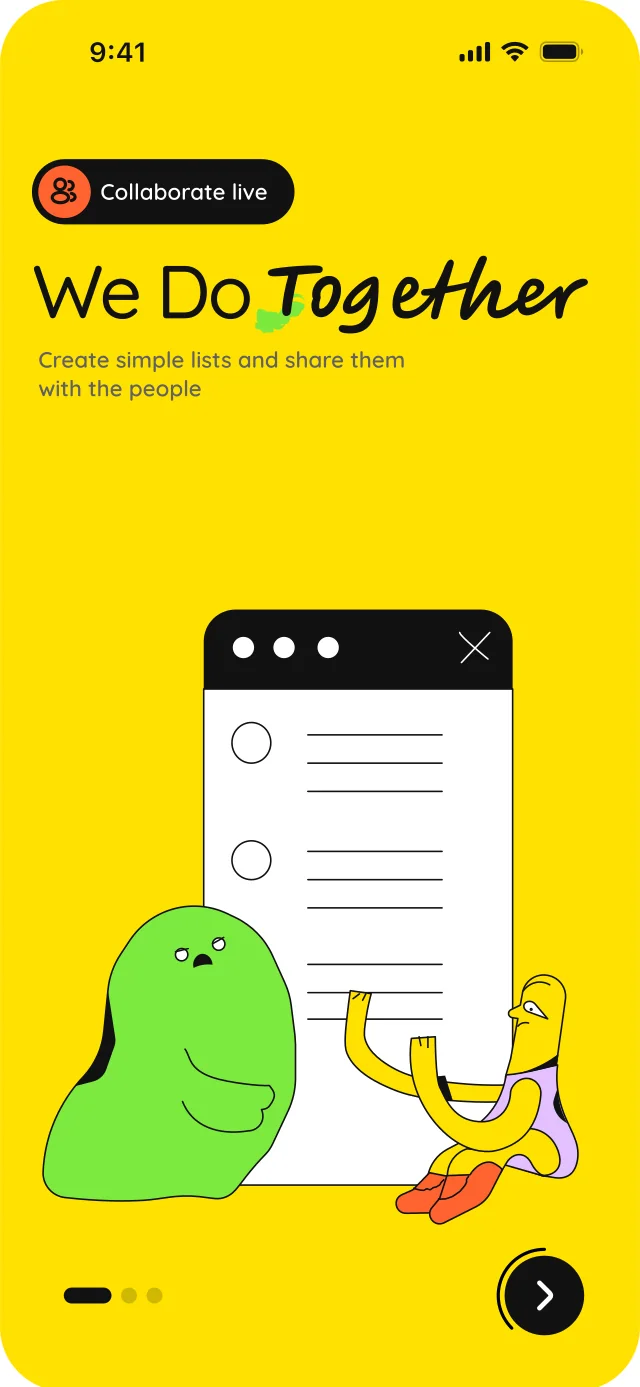
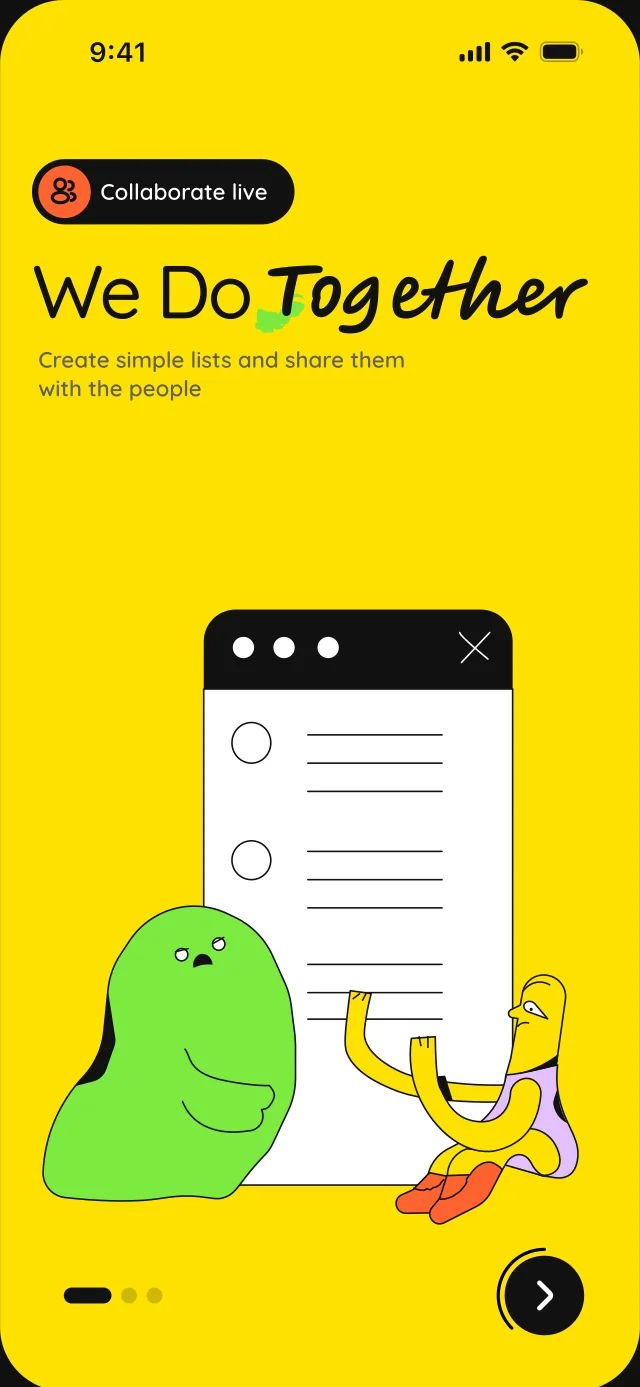
Proof: WeDo phone steps through seven screens; pages change by fade only, no taps

diff --git a/src/content/story.ts b/src/content/story.ts
@@ -121,8 +121,6 @@ export interface WorkMedia {
   /** public/work/<file>.webp, one per screen (a file may come back later in the loop) */
   files: readonly string[]
   alts: readonly string[]
-  /** where a finger taps to reach each screen (fractions of the screen), or null */
-  taps: readonly (readonly [number, number] | null)[]
   /** intrinsic size of the first screen */
   w: number
   h: number
@@ -138,17 +136,13 @@ export interface WorkProject {
   link?: { label: string; href: string }
   media: readonly WorkMedia[]
 }
-type Tap = readonly [x: number, y: number]
-const m = (kind: WorkKind, w: number, h: number, ...screens: [file: string, alt: string, tap?: Tap][]): WorkMedia => ({
+const m = (kind: WorkKind, w: number, h: number, ...screens: [file: string, alt: string][]): WorkMedia => ({
   kind,
   w,
   h,
   files: screens.map((x) => x[0]),
   alts: screens.map((x) => x[1]),
-  taps: screens.map((x) => x[2] ?? null),
 })
-/** DAZN's tab bar and header, as fractions of the phone screen */
-const DZ = { home: [0.115, 0.915], scores: [0.305, 0.915], schedule: [0.69, 0.915], search: [0.88, 0.915], avatar: [0.903, 0.087], back: [0.07, 0.087] } as const
 export const WORK: readonly WorkProject[] = [
   {
     id: 'dazn',
@@ -166,12 +160,12 @@ export const WORK: readonly WorkProject[] = [
         'phone',
         640,
         1382,
-        ['dazn-1', 'DAZN on mobile: home', DZ.home],
-        ['dazn-5', 'DAZN on mobile: profile', DZ.avatar],
-        ['dazn-1', 'DAZN on mobile: home', DZ.back],
-        ['dazn-2', 'DAZN on mobile: football scores', DZ.scores],
-        ['dazn-3', 'DAZN on mobile: schedule', DZ.schedule],
-        ['dazn-4', 'DAZN on mobile: search', DZ.search],
+        ['dazn-1', 'DAZN on mobile: home'],
+        ['dazn-5', 'DAZN on mobile: profile'],
+        ['dazn-1', 'DAZN on mobile: home'],
+        ['dazn-2', 'DAZN on mobile: football scores'],
+        ['dazn-3', 'DAZN on mobile: schedule'],
+        ['dazn-4', 'DAZN on mobile: search'],
       ),
     ],
   },
@@ -209,18 +203,17 @@ export const WORK: readonly WorkProject[] = [
       ['Platform', 'Mobile app'],
     ],
     media: [
-      // taps land where a finger would press: Get Started, an answer, View Profile, Message now
       m(
         'phone',
         640,
         1374,
         ['roomistry-0', 'Roomistry: the splash screen'],
         ['roomistry-1', 'Roomistry: welcome to Roomistry'],
-        ['roomistry-2', 'Roomistry: the questionnaire, cleanliness', [0.5, 0.899]],
-        ['roomistry-3', 'Roomistry: the questionnaire, passions', [0.25, 0.395]],
+        ['roomistry-2', 'Roomistry: the questionnaire, cleanliness'],
+        ['roomistry-3', 'Roomistry: the questionnaire, passions'],
         ['roomistry-4', 'Roomistry: four roommates that match'],
-        ['roomistry-5', 'Roomistry: a roommate profile', [0.59, 0.354]],
-        ['roomistry-6', 'Roomistry: messaging a roommate', [0.657, 0.306]],
+        ['roomistry-5', 'Roomistry: a roommate profile'],
+        ['roomistry-6', 'Roomistry: messaging a roommate'],
       ),
     ],
   },
@@ -253,8 +246,7 @@ export const WORK: readonly WorkProject[] = [
         1386,
         ['studious-1', 'Studious on mobile: the splash screen'],
         ['studious-2', 'Studious on mobile: welcome to Studious'],
-        // a tap on Next leads on to the account
-        ['studious-3', 'Studious on mobile: create an account', [0.5, 0.917]],
+        ['studious-3', 'Studious on mobile: create an account'],
       ),
     ],
   },
@@ -273,7 +265,18 @@ export const WORK: readonly WorkProject[] = [
     body: 'Shared lists for groceries, trips and baby gear, kept in one clean spot.',
     meta: [['Platform', 'Mobile app']],
     media: [
-      m('phone', 640, 1387, ['wedo-0', 'WeDo: We do together'], ['wedo-1', 'WeDo: a shared grocery list'], ['wedo-2', 'WeDo: for everything']),
+      m(
+        'phone',
+        640,
+        1387,
+        ['wedo-0', 'WeDo onboarding: We do together'],
+        ['wedo-1', 'WeDo onboarding: always in sync'],
+        ['wedo-2', 'WeDo onboarding: for everything'],
+        ['wedo-3', 'WeDo: one step away from shared lists, sign in'],
+        ['wedo-4', 'WeDo: no list yet'],
+        ['wedo-5', 'WeDo: a new list'],
+        ['wedo-6', 'WeDo: Grocery and Baby items lists, shared'],
+      ),
     ],
   },
 ]

diff --git a/src/build/sections/proof/workFx.ts b/src/build/sections/proof/workFx.ts
@@ -2,7 +2,7 @@
  * 03 Proof — the work strip's driver. Region 1's build progress slides the
  * track sideways (the camera holds still on the region, like How I think's
  * pan). Frames with several screens change page while in view, like
- * tapping through an app; screen recordings play only while their frame is in
+ * changing pages in an app; screen recordings play only while their frame is in
  * view. The bottom timeline's dot follows the strip and names the project in view.
  * Layout is read only in `measure`; `update` writes cached transforms.
  */
@@ -24,25 +24,15 @@ export function mountWork(root: HTMLElement) {
   const projs = Array.from(track.querySelectorAll<HTMLElement>('.pw-proj'))
   const ticks = Array.from(root.querySelectorAll<HTMLElement>('.pw-tick'))
   /** frames with several screens: they change page while in view, like an app */
-  const decks = Array.from(track.querySelectorAll<HTMLElement>('.pw-m.is-deck')).map((el, k) => {
-    const id = el.closest<HTMLElement>('.pw-proj')?.dataset.k
-    const media = WORK[Number(id)]?.media.find((m) => m.files.length > 1)
-    return {
-      el,
-      imgs: Array.from(el.querySelectorAll<HTMLImageElement>('.pw-shot img')),
-      tap: el.querySelector<HTMLElement>('.pw-tap'),
-      taps: media?.taps ?? [],
-      i: 0,
-      /** the page coming next, and when it takes over (after the tap lands) */
-      j: -1,
-      at: 0,
-      flip: false,
-      mid: 0,
-      w: 0,
-      // decks start out of step, so neighbours don't all change at once
-      next: 1.4 + (k % 3) * 0.8,
-    }
-  })
+  const decks = Array.from(track.querySelectorAll<HTMLElement>('.pw-m.is-deck')).map((el, k) => ({
+    el,
+    imgs: Array.from(el.querySelectorAll<HTMLImageElement>('.pw-shot img')),
+    i: 0,
+    mid: 0,
+    w: 0,
+    // decks start out of step, so neighbours don't all change at once
+    next: 1.4 + (k % 3) * 0.8,
+  }))
   /** screen recordings: they play while their frame is in view */
   const vids = Array.from(track.querySelectorAll<HTMLVideoElement>('.pw-shot video')).map((v) => {
     v.muted = true // autoplay without a gesture needs the property, not just the attribute
@@ -55,7 +45,6 @@ export function mountWork(root: HTMLElement) {
     else o.v.pause()
   }
   const HOLD = 2.3 // seconds on each page
-  const TAP = 0.3 // the tap lands this long before the page changes
 
   let clipW = 1
   let travel = 0
@@ -116,17 +105,8 @@ export function mountWork(root: HTMLElement) {
         track.style.transform = tk
       }
 
-      // decks in view change page: a tap lands where the finger would press,
-      // then the next page fades in over the current one (an app's page change)
+      // decks in view change page: the next page fades in over the current one
       decks.forEach((d) => {
-        if (d.j >= 0) {
-          if (e.t < d.at) return
-          const j = d.j
-          d.j = -1
-          d.imgs.forEach((img, n) => (img.dataset.s = n === j ? 'on' : n === d.i ? 'prev' : 'park'))
-          d.i = j
-          return
-        }
         const seen = Math.abs(d.mid + x - clipW / 2) < clipW / 2 - d.w * 0.15
         if (!seen) {
           d.next = Math.max(d.next, e.t + 0.6)
@@ -135,16 +115,8 @@ export function mountWork(root: HTMLElement) {
         if (e.t < d.next) return
         d.next = e.t + HOLD
         const j = (d.i + 1) % d.imgs.length
-        const tap = d.taps[j]
-        d.j = j
-        d.at = e.t + (tap && d.tap ? TAP : 0)
-        if (tap && d.tap) {
-          d.tap.style.left = `${(tap[0] * 100).toFixed(1)}%`
-          d.tap.style.top = `${(tap[1] * 100).toFixed(1)}%`
-          // two identical animations, swapped, so the ripple restarts every time
-          d.flip = !d.flip
-          d.tap.dataset.p = d.flip ? 'a' : 'b'
-        }
+        d.imgs.forEach((img, n) => (img.dataset.s = n === j ? 'on' : n === d.i ? 'prev' : 'park'))
+        d.i = j
       })
 
       // a recording plays while any of its frame is on screen

diff --git a/src/build/sections/proof/proof.css b/src/build/sections/proof/proof.css
@@ -264,7 +264,7 @@
 }
 
 /* a frame with several screens changes page like an app: the next page fades
-   in over the current one; on DAZN a finger tap lands on the tab first */
+   in over the current one */
 .pw-shot img[data-s] {
   will-change: opacity;
 }
@@ -281,53 +281,6 @@
   z-index: 0;
   opacity: 0;
 }
-.pw-tap {
-  position: absolute;
-  z-index: 3;
-  width: 15%;
-  aspect-ratio: 1;
-  border-radius: 50%;
-  background: rgb(255 255 255 / 0.55);
-  box-shadow: 0 0 0 1px rgb(255 255 255 / 0.4);
-  opacity: 0;
-  translate: -50% -50%;
-  pointer-events: none;
-}
-.pw-tap[data-p='a'] {
-  animation: pw-tap-a 620ms cubic-bezier(0.2, 0.7, 0.3, 1);
-}
-.pw-tap[data-p='b'] {
-  animation: pw-tap-b 620ms cubic-bezier(0.2, 0.7, 0.3, 1);
-}
-@keyframes pw-tap-a {
-  0% {
-    opacity: 0;
-    scale: 0.35;
-  }
-  25% {
-    opacity: 0.9;
-    scale: 0.7;
-  }
-  100% {
-    opacity: 0;
-    scale: 1.6;
-  }
-}
-@keyframes pw-tap-b {
-  0% {
-    opacity: 0;
-    scale: 0.35;
-  }
-  25% {
-    opacity: 0.9;
-    scale: 0.7;
-  }
-  100% {
-    opacity: 0;
-    scale: 1.6;
-  }
-}
-
 /* the timeline */
 .pw-rule {
   position: absolute;

diff --git a/src/build/sections/proof/Proof.tsx b/src/build/sections/proof/Proof.tsx
@@ -18,7 +18,6 @@ const pad = (n: number) => String(n).padStart(2, '0')
  *  recording it plays while in view (./workFx.ts) */
 function Screen({ m }: { m: WorkMedia }) {
   const many = m.files.length > 1
-  const taps = m.taps.some(Boolean)
   return (
     <figure className={`pw-m pw-${m.kind}${many ? ' is-deck' : ''}`} style={{ '--r': (m.w / m.h).toFixed(4) } as CSSProperties}>
       <div className="pw-frame">
@@ -47,7 +46,6 @@ function Screen({ m }: { m: WorkMedia }) {
               <img key={i} src={`/work/${f}.webp`} alt={m.alts[i]} width={m.w} height={m.h} decoding="async" fetchPriority="low" data-s={i === 0 ? 'on' : 'park'} />
             ))
           )}
-          {taps && <span className="pw-tap" aria-hidden="true" />}
         </div>
       </div>
     </figure>
